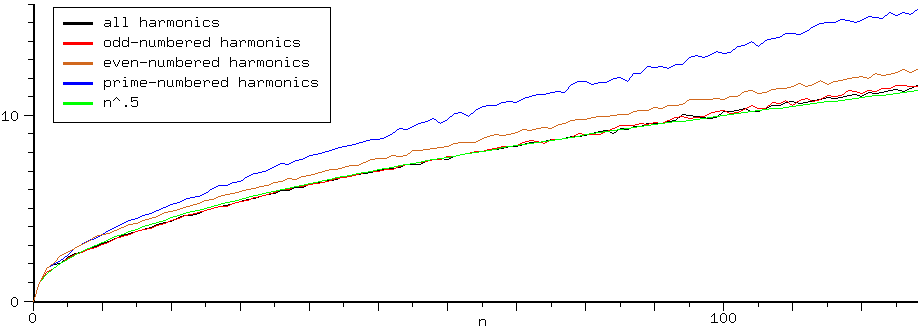
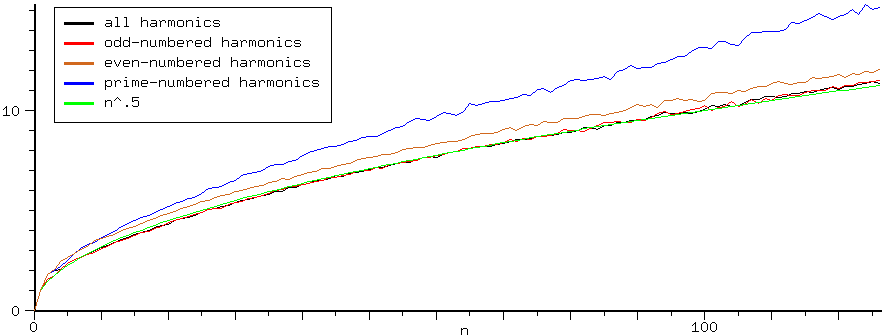
bugs

diff --git a/sndscm.html b/sndscm.html
@@ -7769,120 +7769,120 @@ of harmonics, then the minimum peak amplitude, then <code>(log peak n)</code>.
 24    4.731   0.4890    | 13    3.475   0.4857   | 127  11.928  0.5117   | 17    4.720   0.5477
 19    4.224   0.4893    | 18    4.071   0.4857   | 113  11.268  0.5123   | 30    6.455   0.5483
 15    3.769   0.4899    | 16    3.858   0.4870   | 125  11.877  0.5125   | 22    5.447   0.5484
-25    4.856   0.4909    | 15    3.740   0.4871   | 104  10.812  0.5126   | 39    7.469   0.5489
-13    3.525   0.4912    | 12    3.363   0.4880   | 115  11.390  0.5127   | 63    9.743   0.5495
-12    3.389   0.4912    | 28    5.093   0.4885   | 123  11.794  0.5128   | 21    5.330   0.5496
-10    3.103   0.4917    | 21    4.450   0.4904   | 86   9.818   0.5128   | 20    5.190   0.5497
-18    4.145   0.4920    | 23    4.664   0.4911   | 106  10.939  0.5130   | 51    8.684   0.5498
-29    5.245   0.4922    | 20    4.360   0.4915   | 87   9.889   0.5131   | 29    6.369   0.5498
-27    5.066   0.4923    | 31    5.423   0.4924   | 78   9.350   0.5131   | 38    7.403   0.5503
-28    5.161   0.4925    | 22    4.583   0.4925   | 97   10.474  0.5134   | 37    7.298   0.5504
-22    4.588   0.4929    | 24    4.789   0.4929   | 81   9.558   0.5137   | 33    6.853   0.5505
-21    4.484   0.4929    | 25    4.889   0.4930   | 72   9.000   0.5138   | 27    6.138   0.5505
-35    5.770   0.4929    | 33    5.607   0.4931   | 98   10.548  0.5138   | 16    4.603   0.5506
-37    5.934   0.4931    | 29    5.267   0.4934   | 119  11.659  0.5139   | 86    11.641  0.5510
-32    5.530   0.4934    | 30    5.357   0.4935   | 88   9.985   0.5139   | 12    3.937   0.5515
-30    5.367   0.4940    | 8     2.791   0.4936   | 126  12.013  0.5140   | 34    6.998   0.5517
-9     2.962   0.4942    | 27    5.092   0.4938   | 118  11.621  0.5142   | 77    10.992  0.5519
-8     2.795   0.4942    | 26    5.008   0.4945   | 112  11.314  0.5142   | 59    9.494   0.5520
-26    5.008   0.4945    | 7     2.618   0.4947   | 84   9.762   0.5142   | 46    8.278   0.5521
-33    5.635   0.4945    | 32    5.568   0.4954   | 109  11.162  0.5143   | 45    8.181   0.5521
-34    5.721   0.4946    | 52    7.087   0.4956   | 117  11.578  0.5143   | 48    8.485   0.5524
-39    6.131   0.4950    | 50    6.955   0.4958   | 105  10.953  0.5143   | 50    8.687   0.5526
-31    5.484   0.4956    | 34    5.745   0.4958   | 63   8.424   0.5144   | 15    4.468   0.5528
-60    7.620   0.4960    | 35    5.838   0.4963   | 103  10.852  0.5145   | 64    9.967   0.5529
-56    7.372   0.4963    | 41    6.328   0.4968   | 122  11.842  0.5145   | 53    8.986   0.5530
-44    6.553   0.4968    | 43    6.481   0.4969   | 91   10.185  0.5145   | 26    6.063   0.5532
-36    5.931   0.4968    | 82    8.933   0.4969   | 75   9.221   0.5145   | 52    8.899   0.5532
-46    6.700   0.4968    | 45    6.631   0.4970   | 124  11.945  0.5146   | 62    9.830   0.5538
-43    6.482   0.4969    | 42    6.408   0.4970   | 107  11.075  0.5146   | 74    10.845  0.5538
-49    6.922   0.4971    | 37    6.025   0.4974   | 120  11.758  0.5148   | 70    10.521  0.5539
-84    9.050   0.4971    | 74    8.506   0.4974   | 114  11.452  0.5148   | 36    7.281   0.5540
-41    6.336   0.4972    | 46    6.717   0.4975   | 64   8.512   0.5149   | 35    7.170   0.5541
-53    7.211   0.4976    | 39    6.187   0.4975   | 77   9.375   0.5152   | 31    6.706   0.5542
-52    7.150   0.4978    | 47    6.793   0.4976   | 108  11.168  0.5154   | 49    8.647   0.5543
-48    6.871   0.4979    | 72    8.409   0.4979   | 102  10.851  0.5155   | 71    10.620  0.5543
-98    9.816   0.4982    | 40    6.278   0.4980   | 95   10.463  0.5156   | 11    3.779   0.5544
-55    7.362   0.4982    | 57    7.498   0.4983   | 58   8.115   0.5156   | 54    9.131   0.5544
-68    8.198   0.4986    | 89    9.364   0.4983   | 116  11.605  0.5157   | 9     3.382   0.5546
-7     2.639   0.4988    | 105   10.172  0.4984   | 83   9.767   0.5158   | 84    11.674  0.5546
-80    8.899   0.4988    | 56    7.439   0.4985   | 89   10.126  0.5158   | 43    8.055   0.5547
-77    8.731   0.4988    | 101   9.985   0.4986   | 80   9.585   0.5158   | 47    8.467   0.5548
-76    8.676   0.4989    | 51    7.102   0.4986   | 62   8.406   0.5159   | 14    4.325   0.5549
-50    7.041   0.4989    | 59    7.643   0.4988   | 68   8.819   0.5159   | 85    11.773  0.5550
-40    6.299   0.4989    | 55    7.381   0.4988   | 69   8.888   0.5160   | 32    6.846   0.5551
-38    6.141   0.4990    | 44    6.605   0.4989   | 53   7.762   0.5161   | 72    10.743  0.5552
-78    8.794   0.4990    | 108   10.345  0.4990   | 59   8.206   0.5162   | 69    10.496  0.5553
-57    7.521   0.4990    | 91    9.498   0.4990   | 44   7.056   0.5163   | 58    9.532   0.5553
-99    9.906   0.4990    | 60    7.716   0.4990   | 47   7.300   0.5163   | 83    11.632  0.5553
-86    9.240   0.4992    | 77    8.739   0.4991   | 38   6.542   0.5164   | 13    4.155   0.5553
-74    8.572   0.4992    | 81    8.965   0.4991   | 79   9.552   0.5165   | 92    12.319  0.5553
-61    7.787   0.4993    | 78    8.802   0.4992   | 96   10.566  0.5165   | 40    7.760   0.5555
-42    6.466   0.4994    | 61    7.786   0.4992   | 73   9.173   0.5166   | 82    11.563  0.5555
-47    6.839   0.4994    | 110   10.454  0.4993   | 54   7.854   0.5167   | 60    9.723   0.5555
-70    8.347   0.4994    | 76    8.692   0.4993   | 110  11.347  0.5167   | 44    8.186   0.5556
-69    8.290   0.4995    | 38    6.150   0.4994   | 101  10.865  0.5169   | 94    12.485  0.5557
-63    7.922   0.4995    | 69    8.287   0.4994   | 92   10.359  0.5170   | 97    12.707  0.5557
-51    7.129   0.4996    | 88    9.358   0.4995   | 61   8.376   0.5170   | 41    7.876   0.5557
-73    8.528   0.4996    | 106   10.271  0.4995   | 74   9.264   0.5172   | 42    7.982   0.5557
-105   10.227  0.4996    | 58    7.601   0.4995   | 90   10.257  0.5174   | 76    11.099  0.5558
-64    7.986   0.4996    | 48    6.915   0.4995   | 94   10.492  0.5174   | 91    12.269  0.5558
-67    8.171   0.4996    | 63    7.923   0.4996   | 82   9.782   0.5175   | 55    9.276   0.5558
-54    7.337   0.4996    | 83    9.098   0.4997   | 60   8.322   0.5175   | 93    12.449  0.5563
-66    8.112   0.4996    | 53    7.272   0.4997   | 70   9.014   0.5175   | 87    12.008  0.5566
-85    9.206   0.4997    | 54    7.342   0.4998   | 45   7.172   0.5176   | 10    3.602   0.5566
-79    8.877   0.4997    | 36    5.996   0.4998   | 76   9.408   0.5176   | 75    11.060  0.5567
-91    9.529   0.4998    | 65    8.060   0.4999   | 111  11.448  0.5176   | 81    11.548  0.5567
-104   10.188  0.4998    | 49    6.998   0.4999   | 40   6.754   0.5178   | 90    12.252  0.5568
-59    7.675   0.4998    | 67    8.189   0.5001   | 51   7.665   0.5180   | 105   13.352  0.5569
-45    6.703   0.4998    | 102   10.109  0.5002   | 65   8.696   0.5181   | 68    10.484  0.5569
-62    7.868   0.4998    | 95    9.759   0.5003   | 57   8.126   0.5182   | 67    10.398  0.5569
-90    9.479   0.4998    | 103   10.166  0.5004   | 71   9.115   0.5184   | 78    11.326  0.5571
-65    8.057   0.4998    | 92    9.614   0.5005   | 56   8.062   0.5185   | 88    12.116  0.5571
-81    8.994   0.4998    | 96    9.821   0.5005   | 67   8.848   0.5185   | 73    10.918  0.5572
-71    8.425   0.5000    | 62    7.891   0.5005   | 46   7.284   0.5186   | 66    10.323  0.5572
-58    7.615   0.5000    | 75    8.681   0.5005   | 42   6.948   0.5186   | 95    12.655  0.5573
-88    9.391   0.5002    | 90    9.511   0.5006   | 34   6.227   0.5187   | 79    11.430  0.5576
-89    9.462   0.5007    | 80    8.975   0.5008   | 39   6.689   0.5188   | 56    9.455   0.5581
-75    8.685   0.5007    | 66    8.154   0.5009   | 66   8.799   0.5191   | 89    12.262  0.5584
-72    8.509   0.5007    | 73    8.578   0.5009   | 50   7.631   0.5195   | 80    11.572  0.5588
-120   11.001  0.5009    | 70    8.399   0.5009   | 48   7.474   0.5196   | 61    9.971   0.5594
-83    9.149   0.5010    | 68    8.282   0.5010   | 55   8.023   0.5196   | 101   13.220  0.5594
-97    9.894   0.5010    | 114   10.743  0.5013   | 36   6.437   0.5196   | 57    9.601   0.5594
-96    9.846   0.5011    | 97    9.908   0.5013   | 41   6.888   0.5197   | 96    12.869  0.5597
-82    9.106   0.5013    | 113   10.713  0.5017   | 43   7.062   0.5197   | 100   13.174  0.5599
-87    9.384   0.5014    | 87    9.401   0.5018   | 52   7.797   0.5198   | 65    10.355  0.5600
-93    9.704   0.5014    | 118   10.962  0.5019   | 32   6.066   0.5201   | 98    13.038  0.5601
-92    9.652   0.5014    | 64    8.064   0.5019   | 33   6.168   0.5203   | 104   13.493  0.5603
-126   11.311  0.5016    | 84    9.245   0.5020   | 29   5.770   0.5205   | 127   15.165  0.5613
-112   10.669  0.5017    | 86    9.369   0.5023   | 35   6.368   0.5207   | 99    13.187  0.5613
-111   10.627  0.5018    | 120   11.077  0.5023   | 26   5.455   0.5207   | 111   14.063  0.5613
-106   10.395  0.5021    | 115   10.875  0.5030   | 49   7.595   0.5210   | 119   14.653  0.5617
-95    9.844   0.5022    | 99    10.092  0.5031   | 31   5.992   0.5214   | 123   14.944  0.5620
-116   10.896  0.5024    | 98    10.042  0.5031   | 37   6.586   0.5220   | 128   15.285  0.5620
-122   11.185  0.5026    | 71    8.542   0.5032   | 24   5.256   0.5221   | 103   13.531  0.5621
-117   10.961  0.5028    | 85    9.354   0.5032   | 30   5.911   0.5224   | 121   14.843  0.5625
-123   11.255  0.5031    | 79    9.019   0.5034   | 23   5.150   0.5227   | 112   14.223  0.5626
-108   10.543  0.5031    | 111   10.707  0.5034   | 21   4.922   0.5235   | 108   13.938  0.5627
-114   10.834  0.5031    | 117   10.998  0.5035   | 27   5.624   0.5240   | 110   14.097  0.5629
-124   11.316  0.5033    | 3     1.739   0.5035   | 28   5.735   0.5242   | 126   15.221  0.5630
-102   10.259  0.5034    | 122   11.236  0.5036   | 25   5.406   0.5242   | 125   15.167  0.5632
-107   10.510  0.5034    | 128   11.522  0.5038   | 22   5.058   0.5244   | 102   13.544  0.5634
-127   11.458  0.5034    | 93    9.810   0.5038   | 18   4.571   0.5258   | 120   14.846  0.5635
-118   11.054  0.5037    | 112   10.774  0.5038   | 20   4.841   0.5265   | 5     2.477   0.5635
-101   10.222  0.5037    | 109   10.630  0.5038   | 17   4.464   0.5280   | 106   13.851  0.5636
-113   10.823  0.5038    | 107   10.539  0.5040   | 16   4.326   0.5283   | 109   14.092  0.5639
-119   11.118  0.5040    | 127   11.492  0.5040   | 19   4.743   0.5287   | 107   13.953  0.5641
-115   10.937  0.5041    | 121   11.220  0.5041   | 15   4.194   0.5294   | 115   14.579  0.5647
-125   11.420  0.5044    | 116   10.991  0.5043   | 14   4.098   0.5344   | 114   14.533  0.5651
-103   10.363  0.5045    | 126   11.471  0.5045   | 12   3.788   0.5359   | 122   15.105  0.5652
-121   11.243  0.5046    | 100   10.218  0.5047   | 13   3.973   0.5378   | 118   14.872  0.5659
-128   11.574  0.5047    | 124   11.392  0.5047   | 11   3.657   0.5407   | 4     2.192   0.5662
-100   10.225  0.5048    | 125   11.446  0.5049   | 10   3.559   0.5513   | 113   14.571  0.5667
-110   10.739  0.5050    | 94    9.915   0.5049   | 8    3.198   0.5590   | 116   14.805  0.5669
-109   10.709  0.5054    | 123   11.385  0.5054   | 9    3.454   0.5641   | 124   15.421  0.5675
-94    9.938   0.5054    | 119   11.200  0.5055   | 7    3.047   0.5726   | 117   14.958  0.5681
-4     2.039   0.5139    | 104   10.476  0.5058   | 6    2.837   0.5820   | 8     3.263   0.5687
+25    4.856   0.4909    | 15    3.740   0.4871   | 104  10.812  0.5126   | 39    7.463   0.5486
+13    3.525   0.4912    | 12    3.363   0.4880   | 115  11.390  0.5127   | 86    11.538  0.5491
+12    3.389   0.4912    | 28    5.093   0.4885   | 123  11.794  0.5128   | 63    9.730   0.5491
+10    3.103   0.4917    | 21    4.450   0.4904   | 86   9.818   0.5128   | 51    8.665   0.5492
+18    4.145   0.4920    | 23    4.664   0.4911   | 106  10.939  0.5130   | 21    5.330   0.5496
+29    5.245   0.4922    | 20    4.360   0.4915   | 87   9.889   0.5131   | 20    5.190   0.5497
+27    5.066   0.4923    | 31    5.423   0.4924   | 78   9.350   0.5131   | 29    6.369   0.5498
+28    5.161   0.4925    | 22    4.583   0.4925   | 97   10.474  0.5134   | 77    10.897  0.5499
+22    4.588   0.4929    | 24    4.789   0.4929   | 81   9.558   0.5137   | 38    7.403   0.5503
+21    4.484   0.4929    | 25    4.889   0.4930   | 114  11.394  0.5137   | 37    7.298   0.5504
+35    5.770   0.4929    | 33    5.607   0.4931   | 72   9.000   0.5138   | 33    6.853   0.5505
+37    5.934   0.4931    | 29    5.267   0.4934   | 98   10.548  0.5138   | 27    6.138   0.5505
+32    5.530   0.4934    | 30    5.357   0.4935   | 119  11.659  0.5139   | 16    4.603   0.5506
+30    5.367   0.4940    | 8     2.791   0.4936   | 88   9.985   0.5139   | 74    10.722  0.5512
+9     2.962   0.4942    | 27    5.092   0.4938   | 126  12.013  0.5140   | 52    8.834   0.5514
+8     2.795   0.4942    | 26    5.008   0.4945   | 118  11.621  0.5142   | 59    9.472   0.5514
+26    5.008   0.4945    | 7     2.618   0.4947   | 112  11.314  0.5142   | 12    3.937   0.5515
+33    5.635   0.4945    | 32    5.568   0.4954   | 122  11.826  0.5142   | 45    8.165   0.5516
+34    5.721   0.4946    | 52    7.087   0.4956   | 84   9.762   0.5142   | 34    6.998   0.5517
+39    6.131   0.4950    | 50    6.955   0.4958   | 109  11.162  0.5143   | 46    8.272   0.5519
+31    5.484   0.4956    | 34    5.745   0.4958   | 117  11.578  0.5143   | 64    9.930   0.5520
+60    7.620   0.4960    | 35    5.838   0.4963   | 105  10.953  0.5143   | 72    10.603  0.5521
+56    7.372   0.4963    | 41    6.328   0.4968   | 63   8.424   0.5144   | 92    12.142  0.5521
+44    6.553   0.4968    | 43    6.481   0.4969   | 103  10.852  0.5145   | 48    8.478   0.5522
+36    5.931   0.4968    | 82    8.933   0.4969   | 91   10.185  0.5145   | 53    8.964   0.5524
+46    6.700   0.4968    | 45    6.631   0.4970   | 75   9.221   0.5145   | 70    10.457  0.5525
+43    6.482   0.4969    | 42    6.408   0.4970   | 124  11.945  0.5146   | 50    8.684   0.5525
+49    6.922   0.4971    | 37    6.025   0.4974   | 107  11.075  0.5146   | 55    9.158   0.5526
+84    9.050   0.4971    | 74    8.506   0.4974   | 120  11.751  0.5147   | 84    11.574  0.5527
+41    6.336   0.4972    | 46    6.717   0.4975   | 92   10.250  0.5147   | 15    4.468   0.5528
+53    7.211   0.4976    | 39    6.187   0.4975   | 64   8.512   0.5149   | 85    11.658  0.5528
+38    6.113   0.4977    | 47    6.793   0.4976   | 82   9.677   0.5151   | 26    6.063   0.5532
+52    7.150   0.4978    | 72    8.409   0.4979   | 77   9.375   0.5152   | 62    9.807   0.5532
+48    6.871   0.4979    | 40    6.278   0.4980   | 108  11.168  0.5154   | 90    12.057  0.5533
+98    9.816   0.4982    | 57    7.498   0.4983   | 102  10.851  0.5155   | 83    11.531  0.5533
+55    7.362   0.4982    | 89    9.364   0.4983   | 95   10.463  0.5156   | 78    11.144  0.5534
+68    8.198   0.4986    | 105   10.172  0.4984   | 58   8.115   0.5156   | 91    12.141  0.5535
+7     2.639   0.4988    | 56    7.439   0.4985   | 116  11.605  0.5157   | 71    10.589  0.5536
+80    8.899   0.4988    | 101   9.985   0.4986   | 83   9.767   0.5158   | 40    7.709   0.5537
+77    8.731   0.4988    | 51    7.102   0.4986   | 89   10.126  0.5158   | 47    8.431   0.5537
+76    8.676   0.4989    | 59    7.643   0.4988   | 80   9.585   0.5158   | 79    11.240  0.5537
+50    7.041   0.4989    | 55    7.381   0.4988   | 62   8.406   0.5159   | 69    10.433  0.5538
+40    6.299   0.4989    | 44    6.605   0.4989   | 101  10.816  0.5159   | 36    7.280   0.5540
+78    8.794   0.4990    | 108   10.345  0.4990   | 68   8.819   0.5159   | 94    12.390  0.5540
+57    7.521   0.4990    | 91    9.498   0.4990   | 69   8.888   0.5160   | 35    7.170   0.5541
+99    9.906   0.4990    | 60    7.716   0.4990   | 53   7.762   0.5161   | 73    10.775  0.5541
+86    9.240   0.4992    | 77    8.739   0.4991   | 59   8.206   0.5162   | 82    11.493  0.5541
+74    8.572   0.4992    | 81    8.965   0.4991   | 44   7.056   0.5163   | 31    6.706   0.5542
+61    7.787   0.4993    | 78    8.802   0.4992   | 47   7.300   0.5163   | 54    9.125   0.5543
+42    6.466   0.4994    | 61    7.786   0.4992   | 38   6.542   0.5164   | 49    8.647   0.5543
+47    6.839   0.4994    | 110   10.454  0.4993   | 79   9.552   0.5165   | 60    9.674   0.5543
+70    8.347   0.4994    | 76    8.692   0.4993   | 96   10.566  0.5165   | 93    12.337  0.5543
+69    8.290   0.4995    | 38    6.150   0.4994   | 94   10.453  0.5166   | 11    3.779   0.5544
+63    7.922   0.4995    | 69    8.287   0.4994   | 73   9.173   0.5166   | 9     3.382   0.5546
+51    7.129   0.4996    | 88    9.358   0.4995   | 54   7.854   0.5167   | 43    8.053   0.5546
+73    8.528   0.4996    | 106   10.271  0.4995   | 110  11.347  0.5167   | 58    9.517   0.5549
+105   10.227  0.4996    | 58    7.601   0.4995   | 61   8.376   0.5170   | 14    4.325   0.5549
+64    7.986   0.4996    | 48    6.915   0.4995   | 74   9.264   0.5172   | 97    12.664  0.5550
+67    8.171   0.4996    | 63    7.923   0.4996   | 90   10.257  0.5174   | 32    6.846   0.5551
+54    7.337   0.4996    | 83    9.098   0.4997   | 60   8.322   0.5175   | 88    12.006  0.5551
+66    8.112   0.4996    | 53    7.272   0.4997   | 70   9.014   0.5175   | 105   13.243  0.5551
+85    9.206   0.4997    | 54    7.342   0.4998   | 45   7.172   0.5176   | 95    12.530  0.5552
+79    8.877   0.4997    | 36    5.996   0.4998   | 76   9.408   0.5176   | 13    4.155   0.5553
+91    9.529   0.4998    | 65    8.060   0.4999   | 111  11.448  0.5176   | 87    11.941  0.5553
+104   10.188  0.4998    | 49    6.998   0.4999   | 40   6.754   0.5178   | 76    11.082  0.5554
+59    7.675   0.4998    | 67    8.189   0.5001   | 51   7.665   0.5180   | 66    10.250  0.5555
+45    6.703   0.4998    | 102   10.109  0.5002   | 65   8.696   0.5181   | 42    7.977   0.5556
+62    7.868   0.4998    | 95    9.759   0.5003   | 57   8.126   0.5182   | 44    8.186   0.5556
+90    9.479   0.4998    | 103   10.166  0.5004   | 71   9.115   0.5184   | 41    7.873   0.5557
+65    8.057   0.4998    | 92    9.614   0.5005   | 56   8.062   0.5185   | 68    10.431  0.5557
+81    8.994   0.4998    | 96    9.821   0.5005   | 67   8.848   0.5185   | 67    10.347  0.5557
+71    8.425   0.5000    | 62    7.891   0.5005   | 46   7.284   0.5186   | 81    11.514  0.5561
+58    7.615   0.5000    | 75    8.681   0.5005   | 42   6.948   0.5186   | 75    11.032  0.5561
+88    9.391   0.5002    | 90    9.511   0.5006   | 34   6.227   0.5187   | 128   14.855  0.5561
+100   10.013  0.5003    | 80    8.975   0.5008   | 39   6.689   0.5188   | 10    3.602   0.5566
+89    9.462   0.5007    | 66    8.154   0.5009   | 66   8.799   0.5191   | 96    12.686  0.5566
+75    8.685   0.5007    | 73    8.578   0.5009   | 50   7.631   0.5195   | 61    9.858   0.5566
+72    8.509   0.5007    | 70    8.399   0.5009   | 48   7.474   0.5196   | 80    11.467  0.5567
+120   11.001  0.5009    | 68    8.282   0.5010   | 55   8.023   0.5196   | 104   13.289  0.5570
+83    9.149   0.5010    | 114   10.743  0.5013   | 36   6.437   0.5196   | 101   13.088  0.5572
+97    9.894   0.5010    | 97    9.908   0.5013   | 41   6.888   0.5197   | 56    9.426   0.5573
+96    9.846   0.5011    | 113   10.713  0.5017   | 43   7.062   0.5197   | 89    12.236  0.5579
+82    9.106   0.5013    | 87    9.401   0.5018   | 52   7.797   0.5198   | 98    12.920  0.5581
+87    9.384   0.5014    | 118   10.962  0.5019   | 32   6.066   0.5201   | 57    9.582   0.5590
+93    9.704   0.5014    | 64    8.064   0.5019   | 33   6.168   0.5203   | 111   13.908  0.5590
+92    9.652   0.5014    | 84    9.245   0.5020   | 29   5.770   0.5205   | 106   13.559  0.5590
+126   11.311  0.5016    | 86    9.369   0.5023   | 35   6.368   0.5207   | 65    10.323  0.5592
+102   10.180  0.5017    | 120   11.077  0.5023   | 26   5.455   0.5207   | 100   13.135  0.5592
+112   10.669  0.5017    | 109   10.556  0.5023   | 49   7.595   0.5210   | 112   14.008  0.5594
+111   10.627  0.5018    | 115   10.875  0.5030   | 31   5.992   0.5214   | 119   14.518  0.5598
+106   10.395  0.5021    | 99    10.092  0.5031   | 37   6.586   0.5220   | 123   14.799  0.5600
+95    9.844   0.5022    | 98    10.042  0.5031   | 24   5.256   0.5221   | 99    13.113  0.5601
+116   10.896  0.5024    | 71    8.542   0.5032   | 30   5.911   0.5224   | 110   13.929  0.5604
+103   10.266  0.5025    | 85    9.354   0.5032   | 23   5.150   0.5227   | 103   13.449  0.5607
+122   11.185  0.5026    | 79    9.019   0.5034   | 21   4.922   0.5235   | 127   15.134  0.5609
+117   10.961  0.5028    | 111   10.707  0.5034   | 27   5.624   0.5240   | 120   14.695  0.5614
+123   11.255  0.5031    | 117   10.998  0.5035   | 28   5.735   0.5242   | 121   14.768  0.5614
+108   10.543  0.5031    | 3     1.739   0.5035   | 25   5.406   0.5242   | 102   13.420  0.5615
+114   10.834  0.5031    | 122   11.236  0.5036   | 22   5.058   0.5244   | 126   15.113  0.5615
+124   11.316  0.5033    | 128   11.522  0.5038   | 18   4.571   0.5258   | 125   15.047  0.5615
+107   10.510  0.5034    | 93    9.810   0.5038   | 20   4.841   0.5265   | 109   13.936  0.5616
+127   11.458  0.5034    | 112   10.774  0.5038   | 17   4.464   0.5280   | 108   13.879  0.5618
+121   11.185  0.5035    | 107   10.539  0.5040   | 16   4.326   0.5283   | 114   14.330  0.5621
+101   10.213  0.5035    | 127   11.492  0.5040   | 19   4.743   0.5287   | 115   14.458  0.5630
+128   11.509  0.5035    | 121   11.220  0.5041   | 15   4.194   0.5294   | 107   13.883  0.5630
+118   11.054  0.5037    | 116   10.991  0.5043   | 14   4.098   0.5344   | 118   14.689  0.5633
+113   10.823  0.5038    | 126   11.471  0.5045   | 12   3.788   0.5359   | 5     2.477   0.5635
+119   11.114  0.5039    | 100   10.218  0.5047   | 13   3.973   0.5378   | 113   14.358  0.5636
+94    9.871   0.5039    | 124   11.392  0.5047   | 11   3.657   0.5407   | 122   15.006  0.5638
+115   10.937  0.5041    | 125   11.446  0.5049   | 10   3.559   0.5513   | 116   14.640  0.5646
+110   10.697  0.5042    | 94    9.915   0.5049   | 8    3.198   0.5590   | 124   15.256  0.5653
+109   10.654  0.5043    | 104   10.438  0.5050   | 9    3.454   0.5641   | 117   14.818  0.5661
+125   11.420  0.5044    | 123   11.385  0.5054   | 7    3.047   0.5726   | 4     2.192   0.5662
+4     2.039   0.5139    | 119   11.200  0.5055   | 6    2.837   0.5820   | 8     3.263   0.5687
 6     2.549   0.5223    | 4     2.045   0.5161   | 5    2.605   0.5948   | 7     3.062   0.5751
 5     2.343   0.5292    | 6     2.523   0.5164   | 3    2.021   0.6406   | 6     2.805   0.5757
 3     1.980   0.6217    | 5     2.307   0.5195   | 4    2.431   0.6406   | 3     1.980   0.6217
@@ -7893,7 +7893,7 @@ of harmonics, then the minimum peak amplitude, then <code>(log peak n)</code>.
 <p>These values
 represent about 400 GHz years of computing, 
 possible only at an enlightened institution like CCRMA.
-Here is a graph of the peaks (as of May, 2010), followed by a graph of
+Here is a graph of the peaks (as of August, 2010), followed by a graph of
 the exponent vs n (n^y = peak amp). 
 </p>
 

diff --git a/s7.html b/s7.html
@@ -2275,14 +2275,16 @@ one dimensional vector, so the two are not inverses.
 </pre>
 
 <p>Perhaps I should add an optional number-of-dimensions argument?
-This also affects format:
+This also affects format and sort!:
 </p>
 
 <pre>
 &gt; (format #f "~{~A~^ ~}" #2d((1 2) (3 4)))
 "1 2 3 4"
-</pre>
 
+&gt; (sort! #2d((1 4) (3 2)) &gt;) 
+#2D((4 3) (2 1))
+</pre>
 
 </blockquote>
 </small>
@@ -4645,7 +4647,6 @@ compile-time flags:
 <pre>
     HAVE_STDBOOL_H                 1 if you have stdbool.h
     HAVE_PTHREADS                  1 if you want multithreading support (requires pthreads, default is 0)
-    HAVE_NESTED_FUNCTIONS          1 if your compiler supports nested functions
     WITH_GMP                       1 if you want multiprecision arithmetic (requires gmp, mpfr, and mpc, default is 0)
     WITH_COMPLEX                   1 if your compiler supports complex numbers
     HAVE_COMPLEX_TRIG              1 if your math library has complex versions of the trig functions

diff --git a/s7.c b/s7.c
@@ -137,8 +137,6 @@
  *
  * To get multiprecision arithmetic, set WITH_GMP to 1.
  *   You'll also need libgmp, libmpfr, and libmpc (version 0.8.0 or later)
- *
- * If your C compiler supports nested functions, define HAVE_NESTED_FUNCTIONS.
  */
 
 
@@ -585,7 +583,7 @@ struct s7_scheme {
   struct s7_cell _TEMP_CELL, _TEMP_CELL_1;
   s7_pointer TEMP_CELL, TEMP_CELL_1;
 
-  jmp_buf goto_start, goto_qsort_end;
+  jmp_buf goto_start;
   bool longjmp_ok;
   void (*error_exiter)(void);
   
@@ -13822,21 +13820,22 @@ static s7_pointer g_hash_table(s7_scheme *sc, s7_pointer args)
   #define H_hash_table "(hash-table ...) returns a hash-table containing the cons's passed as its arguments. \
 That is, (hash-table '(\"hi\" . 3) (\"ho\" . 32)) returns a new hash-table with the two key/value pairs preinstalled."
 
-  s7_Int i, len;
-  s7_pointer ht;
-  
-  len = s7_list_length(sc, args);
-  if ((len < 0) ||
-      ((len == 0) && (args != sc->NIL)))
-    return(s7_wrong_type_arg_error(sc, "hash-table", 1, car(args), "a proper list"));
+  int i;
+  s7_pointer x, ht;
   
   ht = s7_make_hash_table(sc, 511);
-  if (len > 0)
+  if (args != sc->NIL)
     {
-      s7_pointer x;
-      for (x = args, i = 0; is_pair(x); x = cdr(x), i++) 
-	if (is_pair(car(x)))
-	  s7_hash_table_set(sc, ht, caar(x), cdar(x));
+      for (x = args, i = 1; is_pair(x); x = cdr(x), i++) 
+	{
+	  if (is_pair(car(x)))
+	    s7_hash_table_set(sc, ht, caar(x), cdar(x));
+	  else
+	    {
+	      if (car(x) != sc->NIL)
+		return(s7_wrong_type_arg_error(sc, "hash-table", i, car(x), "a pair: (key value)"));
+	    }
+	}
     }
   return(ht);
 }
@@ -19460,17 +19459,11 @@ static s7_pointer eval(s7_scheme *sc, opcode_t first_op)
       goto START;
 
       /* batcher networks:
-       *    [2]> (bb 3)
        *    ((0 2) (0 1) (1 2))
-       *    [3]> (bb 4)
        *    ((0 2) (1 3) (0 1) (2 3) (1 2))
-       *    [4]> (bb 5)
        *    ((0 4) (0 2) (1 3) (2 4) (0 1) (2 3) (1 4) (1 2) (3 4))
-       *    [5]> (bb 6)
        *    ((0 4) (1 5) (0 2) (1 3) (2 4) (3 5) (0 1) (2 3) (4 5) (1 4) (1 2) (3 4))
-       *    [6]> (bb 7) 
        *    ((0 4) (1 5) (2 6) (0 2) (1 3) (4 6) (2 4) (3 5) (0 1) (2 3) (4 5) (1 4) (3 6) (1 2) (3 4) (5 6))
-       *    [7]> (bb 8)
        *    ((0 4) (1 5) (2 6) (3 7) (0 2) (1 3) (4 6) (5 7) (2 4) (3 5) (0 1) (2 3) (4 5) (6 7) (1 4) (3 6) (1 2) (3 4) (5 6))
        *
        * but since it has to be done here by hand, it turns into too much code.
@@ -27279,9 +27272,6 @@ s7_scheme *s7_init(void)
  *
  * TODO: loading s7test simultaneously in several threads hangs after awhile in join_thread (call/cc?) 
  *         why are list-ref tests getting 'wrong-type-arg?
- *         (qsort is not thread safe -- should we use guile's quicksort rewrite? libguile/quicksort.i.c)
- *         (ideally it would be wrapped inside the evaluator)
- *       perhaps use procedure-source?
  *
  * TODO: :allow-other-keys in lambda* ("lambda!")
  *       :rest is not ignored, so this is not inconsistent, but do we just ignore these in the arg count?
